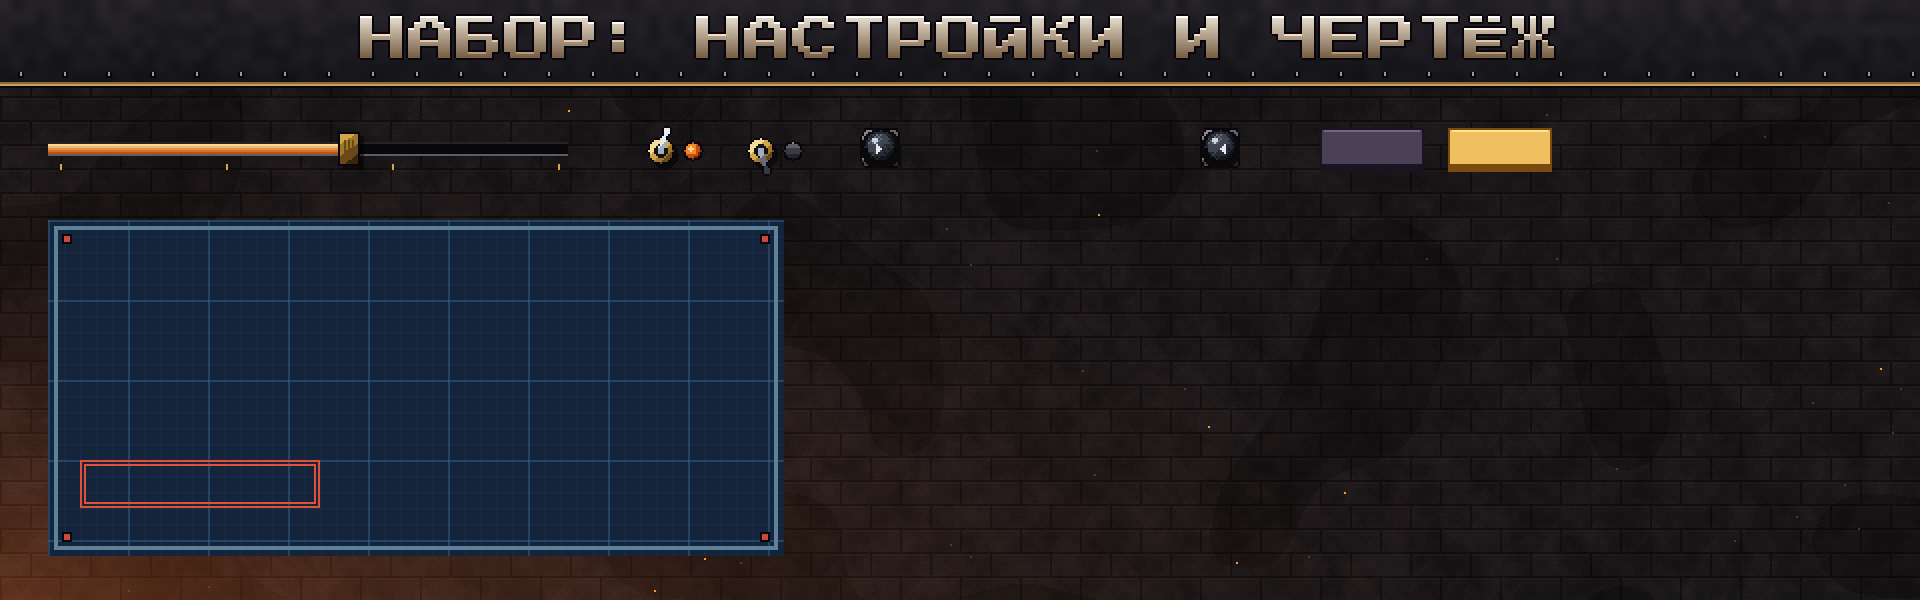
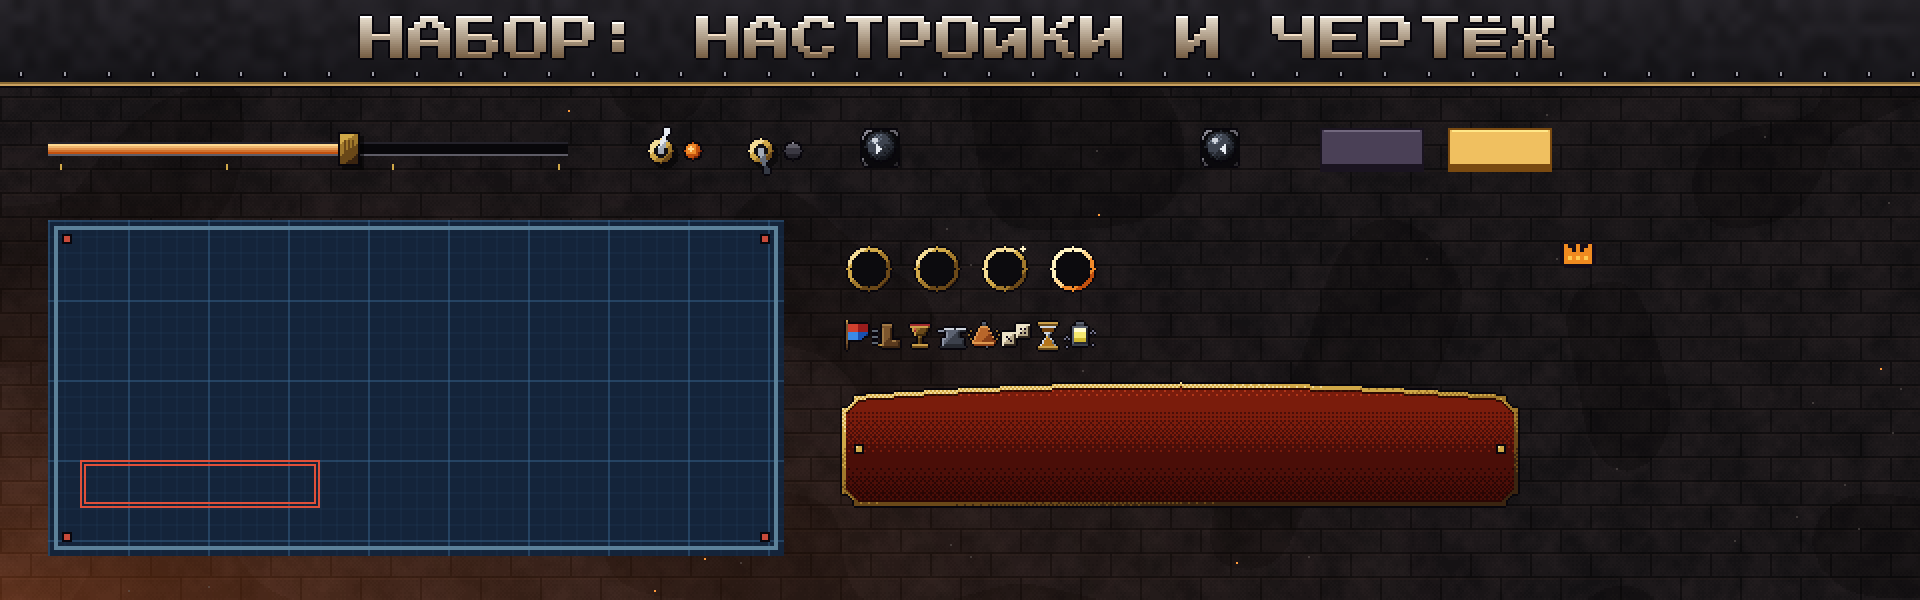
Литейщик: широкий холст для экранов из плит, куски последних экранов в наборе
Claude-Session: https://claude.ai/code/session_01Bh6a99SKMjjKSinDnrtssC

diff --git a/tools/sprites/ui_anim.py b/tools/sprites/ui_anim.py
@@ -656,6 +656,100 @@ def dev_others_anim():
         print(f"\nfoundry_development_{kind}_anim.gif", len(images))
 
 
+def leader_workshops_anim():
+    """The leaders' workshops: an arc crawling off the Inventor's augment cell; mad sparks circling the Mortar on
+    the Maniac's Sage — loops."""
+    import workshop_leaders as WL
+    for kind, fn in (("inventor", WL.inventor), ("maniac", WL.maniac)):
+        images = []
+        for i in range(24):
+            images.append(fn(frame=i).image(2).crop((352, 104, 1400, 920)))
+            print(i, end=" ", flush=True)
+        pxfx.save_gif(images, out(f"foundry_workshop_{kind}_anim.gif"), FPS, half=True)
+        print(f"\nfoundry_workshop_{kind}_anim.gif", len(images))
+
+
+def artifacts_anim():
+    """The artifacts on the beam: a glint running round the awoken one's gold rim; then the Chalice fires — its
+    socket flares red-hot and cools."""
+    import copy
+    import artifacts_ui as AU
+    base = FH.workshop(ret=True)
+    images = []
+    for i in range(36):
+        sc = copy.deepcopy(base)
+        fire = "chalice" if 18 <= i < 30 else None
+        AU.rack(sc, fire=fire, phase=(i % 18) / 18.0)
+        images.append(sc.image(2).crop((0, 0, 800, 100)))
+    pxfx.save_gif(images, out("foundry_artifacts_anim.gif"), FPS)
+    print("foundry_artifacts_anim.gif", len(images))
+
+
+def moments_anim():
+    """The battle's numbers: each blow's number jumps up out of the target, hangs, drifts up and fades; the heavy
+    blow's white-hot «18!» last a little longer."""
+    import copy
+    import battle_moments as BM
+    import swarm_status as ST
+    sc0 = FH.battle_view("run", ret=True, pops=[])
+    fd = FH._FIELD
+    gp = fd["gpos"]
+    lx, ly, lspr = fd["lead"]
+    BM.wall_run(sc0, int(lx + 30), int(ly + 4))
+    BM.leader_pop(sc0, "Кладка", "{каждые:2} → стена I", lx, ST.top_of(lspr, ly) - 4)
+    BM.breaking(sc0, *gp[("Горн", 6, 2)])
+    sx, sy, ss = gp[("Страж", 5, 6)]
+    ox, oy, os_ = gp[("Орудие", 3, 2)]
+    mx, my, ms = gp[("Мудрец", 5, 0)]
+    hx, hy, hs = gp[("Горн", 6, 11)]
+    kx, ky, ks = gp[("Механик", 3, 9)]
+    nums = [(sx + 70, ST.top_of(ss, sy) + 4, "18!", "crit", 0, 22), (sx + 96, ST.top_of(ss, sy) + 40, "6", "hit", 4, 16),
+            (ox + 250, ST.top_of(os_, oy) + 30, "9", "hit", 2, 16), (ox + 280, ST.top_of(os_, oy) + 56, "мимо", "miss", 8, 16),
+            (mx + 140, ST.top_of(ms, my) + 52, "7", "hit", 6, 16), (hx - 6, ST.top_of(hs, hy) - 28, "-4", "hurt", 10, 16),
+            (kx, ST.top_of(ks, ky) - 26, "+4", "heal", 12, 16)]
+    images = []
+    for i in range(36):
+        sc = copy.deepcopy(sc0)
+        for x, y, t, kind, st, life in nums:
+            age = i - st
+            if age < 0 or age >= life:
+                continue
+            pop = out_back(min(1.0, age / 4))
+            dy = int(round(-6 * pop - max(0, age - 8) * 0.8))
+            before = sc.rgb.copy()
+            BM.number(sc, x, int(y + dy + (1 - pop) * 6), t, kind)
+            fade = 1.0 if age < life - 5 else (life - age) / 5.0
+            sc.rgb[:] = before * (1 - fade) + sc.rgb * fade
+        images.append(sc.image(2).crop((300, 60, 1500, 1000)))
+        print(i, end=" ", flush=True)
+    pxfx.save_gif(images, out("foundry_battle_numbers.gif"), FPS, half=True)
+    print("\nfoundry_battle_numbers.gif", len(images))
+
+
+def battle_end_anim():
+    """The battle's end: the field dims and the cast plate drops across it."""
+    from PIL import Image as I
+    base = FH.battle_view("run", ret=True, pops=[]).image(2)
+    final = I.open(out("foundry_battle_end.png")).convert("RGB")
+    pxfx.save_gif(overlay_in(base, final, (0, 390, 1920, 700)), out("foundry_battle_end_anim.gif"), FPS, half=True)
+    print("foundry_battle_end_anim.gif")
+
+
+def menu_anim():
+    """The main menu alive: the furnace burning, the bugs in the breach snapping and shifting; the class pick's
+    furnace burning — loops."""
+    import menu as MN
+    frames_, meta = pxfx.load("forge-fire")
+    for name, fn in (("menu_main_anim.gif", lambda i: MN.main_menu(i, ret=True)),
+                     ("menu_class_anim.gif", lambda i: MN.class_pick("foundry", ret=True, frame=i))):
+        images = []
+        for i in range(0, len(frames_), 2):
+            images.append(fn(i).image(2))
+            print(i, end=" ", flush=True)
+        pxfx.save_gif(images, out(name), 12, half=True)
+        print("\n" + name, len(images))
+
+
 if __name__ == "__main__":
     what = sys.argv[1] if len(sys.argv) > 1 else "console"
     {"console": console, "hearth": hearth, "workshop": workshop, "tabs": tabs, "steps": steps,
@@ -663,4 +757,6 @@ if __name__ == "__main__":
      "hover": hover, "speed": speed, "start": start, "aftermath": aftermath_anim, "card": card_tip, "leadercard": leader_card,
      "battle": battle_anim, "settings": settings_anim, "development": development_anim, "defeat": defeat_anim,
      "cards": cards_anim, "camp": camp_anim, "glossary": glossary_anim, "overlays": overlays_anim,
-     "drag": drag_anim, "zodchiy_card": zodchiy_card_anim, "dev_others": dev_others_anim}[what]()
+     "drag": drag_anim, "zodchiy_card": zodchiy_card_anim, "dev_others": dev_others_anim,
+     "leader_workshops": leader_workshops_anim, "artifacts": artifacts_anim, "moments": moments_anim,
+     "battle_end": battle_end_anim, "menu": menu_anim}[what]()

diff --git a/tools/sprites/engine_kit.py b/tools/sprites/engine_kit.py
@@ -204,12 +204,43 @@ def settings_pieces():
          tile_x=[40, 80], tile_y=[40, 80], mode="9-slice", period=40, snap="w, h = 88 + 40·n (the bold grid runs on)")
 
 
+def run_pieces():
+    """The pieces of the last screens: the artifact socket in its states (and the eight artifacts' icons, an atlas),
+    the leader's ability box (a cell with the crown glyph — the crown as an overlay), the battle's end plate (a
+    nameplate 340 wide), and the damage numbers' style (a spec, not pictures: the engine writes them)."""
+    import artifacts_ui as AU
+    import icons_drawn as D
+    for st in ("empty", "normal", "awake", "fire"):
+        def draw(sc, st=st):
+            AU.socket(sc, 14, 14, None, "normal" if st == "empty" else st)
+        save(f"artifact_socket_{st}", lift(draw, 28, 28), pivot=[14, 14],
+             note="the artifact's icon goes in at (6, 6), ×1" if st != "empty" else "an empty socket")
+    keys = list(D.ART)
+    atlas = np.zeros((16, 16 * len(keys), 4), np.uint8)
+    for j, k in enumerate(keys):
+        atlas[:, j * 16:(j + 1) * 16] = D.ART[k]()
+    Image.fromarray(atlas, "RGBA").save(os.path.join(DST, "artifacts.png"))
+    PIECES["artifacts"] = dict(file="artifacts.png", size=[16 * len(keys), 16], cells=keys, cell=16)
+    save("crown", lift(lambda sc: H.glyph(sc, "лидер", 0, 0, 2), 26, 20),
+         note="the leader's ability box: cell_hi grown to 196×46, the crown at (8, 8), name at (36, 4), line at (36, 22)")
+    for kind, hot in (("win", True), ("lose", False)):
+        im = lift(lambda sc, hot=hot: FU.nameplate(sc, 0, 0, 340, 64, "", hot=hot), 340, 64)
+        save(f"end_plate_{kind}", im, text=dict(align="center", kind="title", px=24, y=20),
+             note="across the dimmed field; cogs either side (win), the field cooled to grey-blue (lose)")
+    PIECES["damage_numbers"] = dict(kind="spec", font="title", rise="out_back over 4 frames, then 0.8 px/frame up, fade the last 5",
+                                    styles=dict(hit=dict(px=16, colour="#ffb050", edge="#781e0a"),
+                                                crit=dict(px=24, colour="#fff6d2", edge="#be3c14", glow="#ff8a2a", suffix="!"),
+                                                hurt=dict(px=16, colour="#ff6e5a", edge="#5a0a0a"),
+                                                miss=dict(px=16, colour="#aaa6a0", edge="#323034", text="мимо"),
+                                                heal=dict(px=16, colour="#96f082", edge="#286e28", prefix="+")))
+
+
 def preview2():
     """The second proof sheet: the new pieces, grown and laid out as the settings and the drawing use them."""
     from swarm_ui import letters
     sc = FU.forge(960, 300, 6)
     FU.wing(sc, 0, 0, 960, 44)
-    letters(sc, "НАБОР: НАСТРОЙКИ И ЧЕРТЁЖ", 480, 8, "title", 24, col=(232, 222, 206), col2=(120, 96, 70), align="center")
+    letters(sc, "НАБОР: НАСТРОЙКИ, ЧЕРТЁЖ, БОЙ", 480, 8, "title", 24, col=(232, 222, 206), col2=(120, 96, 70), align="center")
     canvas = Image.fromarray(np.clip(sc.rgb, 0, 255).astype(np.uint8), "RGB").convert("RGBA")
 
     def src(name):
@@ -232,6 +263,11 @@ def preview2():
         canvas.alpha_composite(g(name, 52, 22), (660 + i * 64, y - 6))
     canvas.alpha_composite(g("blueprint", 88 + 40 * 7, 88 + 40 * 2), (24, 110))
     canvas.alpha_composite(g("stamp", 120, 24), (40, 230))
+    for j, st in enumerate(("empty", "normal", "awake", "fire")):
+        canvas.alpha_composite(src(f"artifact_socket_{st}"), (420 + j * 34, 120))
+    canvas.alpha_composite(src("artifacts"), (420, 160))
+    canvas.alpha_composite(src("end_plate_win"), (420, 190))
+    canvas.alpha_composite(src("crown"), (780, 120))
     canvas = canvas.convert("RGB").resize((1920, 600), Image.NEAREST)
     canvas.save(out("foundry_engine_kit2.png"))
     print("foundry_engine_kit2.png", canvas.size)
@@ -385,6 +421,7 @@ if __name__ == "__main__":
     nameplates()
     controls()
     settings_pieces()
+    run_pieces()
     n = glyphs()
     manifest(n)
     print(len(PIECES), "pieces,", n, "glyphs ->", DST)

diff --git a/tools/sprites/wide.py b/tools/sprites/wide.py
@@ -123,6 +123,54 @@ def sheet():
     print("foundry_wide.png", canvas.size)
 
 
+def plates_layout(name, cols, W, H, sill_split=600, beam_left=170):
+    """Any screen built of plates side by side, laid out by the rule: the beam the full width (its left end and
+    its right end pinned, the title in the middle); the plates pinned to their edges, the one marked «grow» taking
+    the extra width (its content centred in it); every plate taking the extra height (content at its top); the
+    console the full width, its left controls pinned left and its right ones right."""
+    src = np.asarray(Image.open(out(name)).convert("RGB").resize((960, 540), Image.NEAREST)).astype(np.float32)
+    dw, dh = W - 960, H - 540
+    sc = FU.forge(W, H, 13)
+    FU.wing(sc, 0, 0, W, 44)
+    paste(sc, src, 0, 0, beam_left, 41, 0, 0)
+    paste(sc, src, beam_left, 0, 776, 41, beam_left + dw // 2, 0)
+    paste(sc, src, 776, 0, 960, 41, W - 184, 0)
+    for x0, y0, x1, y1, mode in cols:
+        nx0 = x0 + (dw if mode == "pin_r" else 0)
+        nx1 = x1 + (dw if mode in ("pin_r", "grow") else 0)
+        FU.plate(sc, nx0, y0, nx1, y1 + dh, seed=x0 + 5)
+        ox = nx0 + (dw // 2 if mode == "grow" else 0)
+        oy = dh // 2 if mode == "grow" else 0
+        paste(sc, src, x0 + 5, y0 + 5, x1 - 5, y1 - 5, ox + 5, y0 + 5 + oy)
+    sy = 466 + dh
+    FU.sill(sc, sy)
+    paste(sc, src, 0, 470, sill_split, 540, 0, sy + 4)
+    paste(sc, src, sill_split, 468, 960, 540, W - (960 - sill_split), sy + 2)
+    return sc
+
+
+SCREENS = [   # file, its plates (x0, y0, x1, y1, how it grows), where the console splits
+    ("foundry_leader_card.png", [(12, 52, 330, 462, "pin_l"), (338, 52, 626, 462, "grow"), (634, 52, 948, 462, "pin_r")], 600),
+    ("foundry_defeat.png", [(12, 52, 330, 462, "pin_l"), (340, 52, 626, 462, "grow"), (634, 52, 948, 462, "pin_r")], 600),
+    ("foundry_settings.png", [(12, 52, 196, 462, "pin_l"), (206, 52, 948, 462, "grow")], 600),
+    ("foundry_smelt.png", [(12, 52, 300, 462, "pin_l"), (308, 52, 652, 462, "grow"), (660, 52, 948, 462, "pin_r")], 600),
+]
+
+
+def screens_sheet():
+    """Four more screens at 1280×720, two by two."""
+    k = 0.5
+    cw, ch = int(1280 * k), int(720 * k)
+    canvas = Image.new("RGB", (cw * 2 + 48, ch * 2 + 48), (20, 18, 22))
+    for i, (name, cols, split) in enumerate(SCREENS):
+        sc = plates_layout(name, cols, 1280, 720, split)
+        im = Image.fromarray(np.clip(sc.rgb, 0, 255).astype(np.uint8)).resize((cw, ch), Image.BOX)
+        canvas.paste(im, (16 + (i % 2) * (cw + 16), 16 + (i // 2) * (ch + 16)))
+    canvas = canvas.resize((canvas.width * 2, canvas.height * 2), Image.NEAREST)
+    canvas.save(out("foundry_wide_screens.png"))
+    print("foundry_wide_screens.png", canvas.size)
+
+
 def battle_layout(W, H):
     """The battle on a bigger canvas: the field keeps its size in cells — it is not stretched — and stands in the
     middle; round it the same ground runs on without the cells' marks (fading into it at the seam). The beam runs
@@ -178,3 +226,4 @@ def battle_sheet():
 if __name__ == "__main__":
     sheet()
     battle_sheet()
+    screens_sheet()

diff --git a/tools/sprites/workshop_leaders.py b/tools/sprites/workshop_leaders.py
@@ -74,7 +74,28 @@ def save(sc, name):
 
 
 # ---------------------------------------------------------------- Изобретатель: small hulls, an augment cell each
-def inventor():
+def anim_spot(sc, kind, frame):
+    """What moves at a leader's own mount: an arc crawling off the augment, mad sparks circling the alien module."""
+    import leader_cards as LC
+    pt = FH._STATE.get("pts", {}).get("a_coil" if kind == "inventor" else "mortar")
+    if pt is None:
+        return
+    x, y = int(pt[0]), int(pt[1])
+    rnd = np.random.RandomState(200 + frame)
+    if kind == "inventor":
+        sc.glow(x, y, 12, hexc("#2ab0c8"), 0.3 + 0.3 * (frame % 6 < 3))
+        if frame % 6 != 5:
+            ang = rnd.uniform(-2.6, -0.6)
+            LC.jag(sc, LC.arc_pts(x, y, int(x + np.cos(ang) * 22), int(y + np.sin(ang) * 22), 4, rnd, 5))
+    else:
+        sc.glow(x, y, 12, hexc("#d860d0"), 0.35 + 0.25 * np.sin(frame * 2 * np.pi / 12))
+        for k in range(6):
+            a = frame * 0.5 + k * np.pi / 3
+            r = 8 + 3 * np.sin(frame * 0.7 + k)
+            sc.rgb[int(y + np.sin(a) * r), int(x + np.cos(a) * r)] = hexc("#70e080") if k % 2 else hexc("#ffc0f4")
+
+
+def inventor(frame=None):
     sc = frame_screen(21)
     bay_rack(sc, 10, 52, 168, [("Мудрец", 1, 3, True, True, True, 0.42), ("Орудие", 1, 3, True, False, True, 0.4),
                                ("Механик", 1, 2, True, False, True, 0.4)])
@@ -108,11 +129,14 @@ def inventor():
     console(sc)
     if hot:
         H.cursor(sc, hot[1], hot[2])
+    if frame is not None:
+        anim_spot(sc, "inventor", frame)
+        return sc
     save(sc, "foundry_workshop_inventor.png")
 
 
 # ---------------------------------------------------------------- Маньяк: a module off another hull, and its quirk
-def maniac():
+def maniac(frame=None):
     sc = frame_screen(23)
     bay_rack(sc, 10, 52, 168, [("Мудрец", 3, 6, False, True, False, 0.46), ("Орудие", 2, 6, False, False, False, 0.44)])
     FU.plate(sc, 176, 52, 700, 462, seed=3)
@@ -148,6 +172,9 @@ def maniac():
     sc.rgb[412:420, 828:934] = hexc("#9a2aa0")
     letters(sc, "развитие: к зелёному", 722, 426, "text", 16, col=PALE)
     console(sc)
+    if frame is not None:
+        anim_spot(sc, "maniac", frame)
+        return sc
     save(sc, "foundry_workshop_maniac.png")
 
 

diff --git a/tools/sprites/menu.py b/tools/sprites/menu.py
@@ -55,7 +55,8 @@ def main_menu(frame=0, ret=False):
     for j, (bx, by, tr, kk) in enumerate(((800, 250, ("wings",), 1.4), (850, 330, (), 1.3), (770, 320, ("horn",), 1.6),
                                          (830, 400, ("stinger",), 1.7), (740, 420, ("acid",), 1.8), (690, 380, (), 1.9),
                                          (880, 430, ("scythes",), 1.5), (660, 300, ("stinger",), 1.6))):
-        SH.put(sc, SH.bug(tr, "attack" if j % 3 == 0 else "idle", kk, 300 + j), bx, by, 10)   # coming through
+        pose = "attack" if (j + frame // 4) % 3 == 0 else "idle"             # snapping as they come through
+        SH.put(sc, SH.bug(tr, pose, kk, 300 + j), bx + int(2 * np.sin(frame * 0.5 + j)), by, 10)
     g = F.build("Страж", "idle", k=F.FRAMES["Страж"][0] * 1.5)                # a Guard standing before the fire
     sc.blit(g, int(560 - g.ox), int(420 - g.oy))
     sc.rgb[410:416, 220:620] = hexc("#24222a")
@@ -78,7 +79,7 @@ def main_menu(frame=0, ret=False):
     print("menu_main.png", img.size)
 
 
-def class_pick(chosen="foundry", ret=False):
+def class_pick(chosen="foundry", ret=False, frame=0):
     sc = FH.screen(103)
     nest = UI.nest(WW, HH, 7)
     right = sc.xx >= WW // 2
@@ -93,7 +94,7 @@ def class_pick(chosen="foundry", ret=False):
     letters(sc, "КЛАСС", WW // 2 - tw // 2, 8, "title", 24, col=(232, 222, 206), col2=(120, 96, 70))
     # the Foundry's half
     FU.plate(sc, 16, 56, 462, 420, seed=31)
-    furnace(sc, 239, 190, 96, 300, 0)
+    furnace(sc, 239, 190, 96, 300, frame)
     spr = leader_sprite("colossus", 1.9)
     sc.blit(spr, int(239 - spr.ox), int(296 - spr.oy))
     for fr, x in (("Механик", 120), ("Орудие", 362)):

diff --git a/tools/sprites/artifacts_ui.py b/tools/sprites/artifacts_ui.py
@@ -30,7 +30,7 @@ def art_icon(sc, key, x, y, z=1):
     sc.rgb[y:y + rgba.shape[0], x:x + rgba.shape[1]][m] = rgba[..., :3][m]
 
 
-def socket(sc, cx, cy, key=None, state="normal"):
+def socket(sc, cx, cy, key=None, state="normal", phase=None):
     """A round socket in the beam: a brass rim (gold and glowing when awoken, red-hot when firing), a dark well,
     the artifact in it."""
     X, Y = sc.xx - cx, sc.yy - cy
@@ -45,15 +45,19 @@ def socket(sc, cx, cy, key=None, state="normal"):
     sc.rgb[d <= 8.4] = hexc("#0c0b0e")
     if key:
         art_icon(sc, key, cx - 8, cy - 8, 1)
+    if state == "awake" and phase is not None:                                # a glint running round the gold rim
+        a = phase * 2 * np.pi
+        gx_, gy_ = int(cx + np.cos(a) * 10), int(cy + np.sin(a) * 10)
+        sc.rgb[gy_ - 1:gy_ + 2, gx_ - 1:gx_ + 2] = hexc("#fff4c8")
     if state == "awake":                                                      # the awakened star
         for dx, dy in ((0, -1), (-1, 0), (1, 0), (0, 1), (0, 0)):
             sc.rgb[cy - 10 + dy, cx + 9 + dx] = hexc("#fff4c8")
 
 
 def rack(sc, x0=88, cy=21, items=(("banner", "awake"), ("chalice", "normal"), ("anvil", "normal"), ("bell", "normal"),
-                                  (None, "normal")), fire=None):
+                                  (None, "normal")), fire=None, phase=None):
     for j, (key, st) in enumerate(items):
-        socket(sc, x0 + j * 23, cy, key, "fire" if key and key == fire else st)
+        socket(sc, x0 + j * 23, cy, key, "fire" if key and key == fire else st, phase)
     return [(key, x0 + j * 23, cy) for j, (key, _) in enumerate(items)]
 
 

diff --git a/tools/sprites/foundry_hud.py b/tools/sprites/foundry_hud.py
@@ -610,6 +610,7 @@ def slipway(sc, frame, mods, core, ncell, rect, new_key=None, variant=None, role
         for lab_, where, key_, st_ in extra:                          # an augment's cell, a module off another hull
             p_ = BP[where] if isinstance(where, str) else where
             right.append((lab_, at(p_), key_, 1, st_))
+            _STATE.setdefault("pts", {})[key_] = at(p_)
         right.sort(key=lambda t: t[1][1])
         top = M["_body"][2]
         if core:

diff --git a/docs/ART.md b/docs/ART.md
@@ -940,7 +940,14 @@ GNU Unifont 16 px (18.0.01, OFL 1.1) — лежит в `tools/sprites/fonts` с 
 40 px — размеры листа лучше брать 88 + 40·n, тогда сетка не рвётся). Клавиши теперь 22 px высотой, текст на
 них — 16 px. Рамка подсказки — это ячейка (`cell_hi`, `cell_normal`).
 
-![Набор: настройки и чертёж](images/foundry_engine_kit2.png)
+Куски последних экранов (`run_pieces`): гнездо артефакта — пустое, обычное, пробудившееся, раскалённое
+(иконка артефакта ставится в него ×1); атлас восьми иконок артефактов; корона для плашки способности лидера
+(сама плашка — растянутая `cell_hi`); литая табличка конца боя шириной 340 — горячая (победа) и чёрная
+(поражение), текст рисует движок. Цифры урона — не картинки, а описание стиля в `kit.json`: шрифт заголовков,
+цвет и кромка для обычного удара, тяжёлого (24 px, свечение, «!»), урона по голему, промаха, ремонта; как
+всплывают и гаснут.
+
+![Набор: настройки, чертёж, бой](images/foundry_engine_kit2.png)
 
 **Другие экраны** (`wide.py`). Холст арта — 960×540 при ×2 (1920×1080); на 2560×1440 при ×2 он 1280×720, на
 16:10 — 960×600, и его меняет масштаб интерфейса в настройках. Экраны не растягиваются, а раскладываются
@@ -958,6 +965,13 @@ GNU Unifont 16 px (18.0.01, OFL 1.1) — лежит в `tools/sprites/fonts` с 
 Литейщика слева, перетягивание по центру, ход и скорость с клавишами справа.
 
 ![Бой на большом холсте](images/foundry_wide_battle.png)
+
+Остальные экраны из плит раскладываются так же (`plates_layout`): балка во всю ширину — левый конец и правый
+прижаты, заголовок по центру; крайние плиты прижаты к своим краям, средняя («grow») забирает лишнюю ширину,
+её содержимое по центру; лишнюю высоту получают все плиты (содержимое сверху); консоль во всю ширину — левые
+органы слева, правые справа. Карточка лидера, поражение, настройки, переплавка на 1280×720:
+
+![Экраны на большом холсте](images/foundry_wide_screens.png)
 
 ![Бой глазами Литейщика](images/foundry_battle.png)
 
